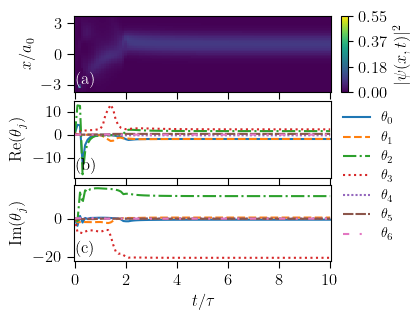
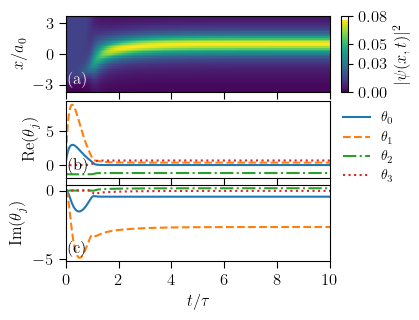
Energy tracker for convergence updated

diff --git a/plots.py b/plots.py
@@ -65,7 +65,7 @@ def evo_fig_params(time, mesh, den, params, fig_name='output.pdf'):
 
     # Middle Panel
     for i in range(real_params.shape[1]):
-        axs[1].plot(time, real_params[:,i], color=colors[i], linestyle=line_styles[i], label=labels[i])
+        axs[1].plot(time, real_params[:,i], color=colors[i%7], linestyle=line_styles[i%7], label=labels[i])
     axs[1].set_ylabel(r'${\rm Re}(\theta_j)$')
     axs[1].tick_params(labelbottom=False, length=5)
     axs[1].set_xticks(np.linspace(0, t_max, 6))
@@ -78,11 +78,12 @@ def evo_fig_params(time, mesh, den, params, fig_name='output.pdf'):
     
     # Bottom Panel
     for i in range(imag_params.shape[1]):
-        axs[2].plot(time, imag_params[:,i], color=colors[i], linestyle=line_styles[i], label=labels[i])
+        axs[2].plot(time, imag_params[:,i], color=colors[i%7], linestyle=line_styles[i%7], label=labels[i])
     axs[2].set_xlabel(r'$t/\tau$')
     axs[2].set_ylabel(r'${\rm Im}(\theta_j)$')
     axs[2].tick_params(labelbottom=True, length=5)
-    axs[2].set_xticks(np.linspace(0, t_max, 6)) 
+    # axs[2].set_xticks(np.linspace(0, t_max, 6)) 
+    axs[2].set_xticks(np.round(np.linspace(0,max(time),6),1))
     # axs[2].set_ylim([lim * 1 for lim in [-1.25, 1.25]])
     axs[2].text(tx, ty, r"${\rm (c)}$",
                 horizontalalignment=ha,
@@ -97,7 +98,7 @@ def evo_fig_params(time, mesh, den, params, fig_name='output.pdf'):
     fig.legend(handles, labels,
                loc='upper left',
                bbox_to_anchor=(0.8, 0.7),
-               ncol=1,
+               ncol=np.ceil(num_params / 7),
                fontsize=10, 
                frameon=False
                )

diff --git a/integrators.py b/integrators.py
@@ -122,16 +122,21 @@ def integrator(model, x_grid, t_grid=None, file_path=pm.file_path):
             # Check for convergence
             if pm.stopper and pm.evolution == 'imag':
                 energy = SR.compute_energy(model(x_grid), x_grid)
+                # Check for NaN
+                if torch.isnan(energy):
+                    raise ValueError(f"NaN encountered in energy calculation at time step {it}." +\
+                                      "Check parameters: dt, lambda_reg, reg.")
                 e_diff  = abs(energy - e0)
                 pbar.set_postfix_str(f"Energy error: {e_diff:.2e}")
                 if e_diff <= pm.e_error:
                     check_point += 1
-                    if check_point == pm.steps:
+                    if check_point == pm.steps // t_step + 1:
                         t_grid = t_grid[:it+1]
                         print('Convergence reached')
                         break
                 else:
                     e0 = energy
+                    check_point = 0
             pbar.update(1)        
         analysis.save_variable(t_grid, "t_grid", file_path)
 # -----------------------------------------------------------------

diff --git a/main.py b/main.py
@@ -51,7 +51,7 @@ match architecture:
         # Network architecture
         input_size = 1
         output_size = 1
-        hidden_layers = [2]
+        hidden_layers = [1]
         # Create Neural Quantum State
         model = NQS(input_size, output_size, hidden_layers).to(device)
         
@@ -71,7 +71,7 @@ pm.x0 = 1
 pm.w = 1
 
 # Time parameters
-pm.dt = 0.1
+pm.dt = 0.01
 pm.t_max = 10
 
 # Integrator parameters

diff --git a/analysis.py b/analysis.py
@@ -198,7 +198,7 @@ class Dynamics:
             psi.append((output[:,0] / np.sqrt(norm[time_step])).detach().numpy())
             energy.append(SR.compute_energy(output, x_grid).detach().numpy())
 
-        return np.array(psi), np.array(norm), np.array(energy)
+        return np.array(psi), np.array(norm).real, np.array(energy).real
     
     def compute_variance(self):
         """
